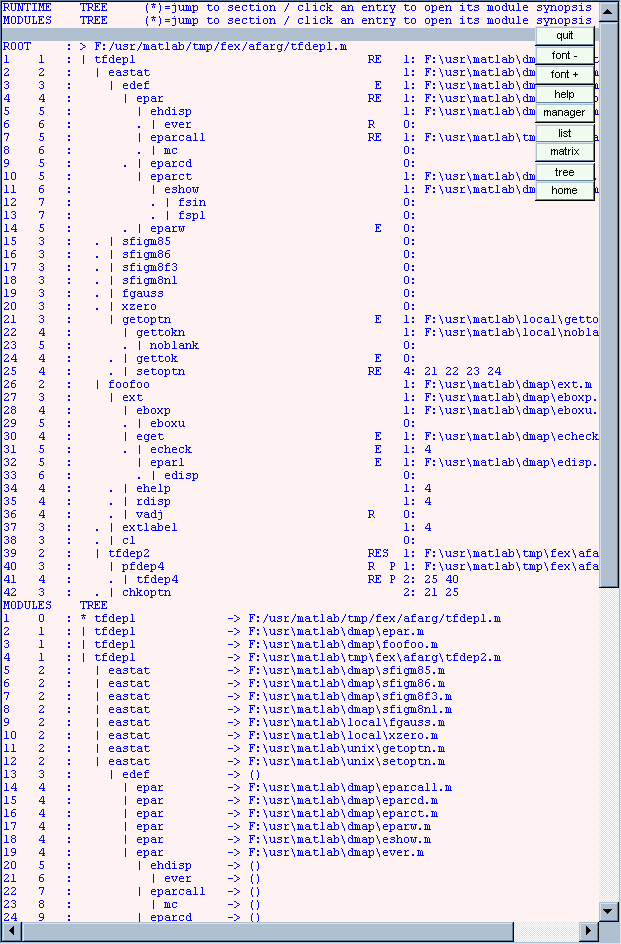
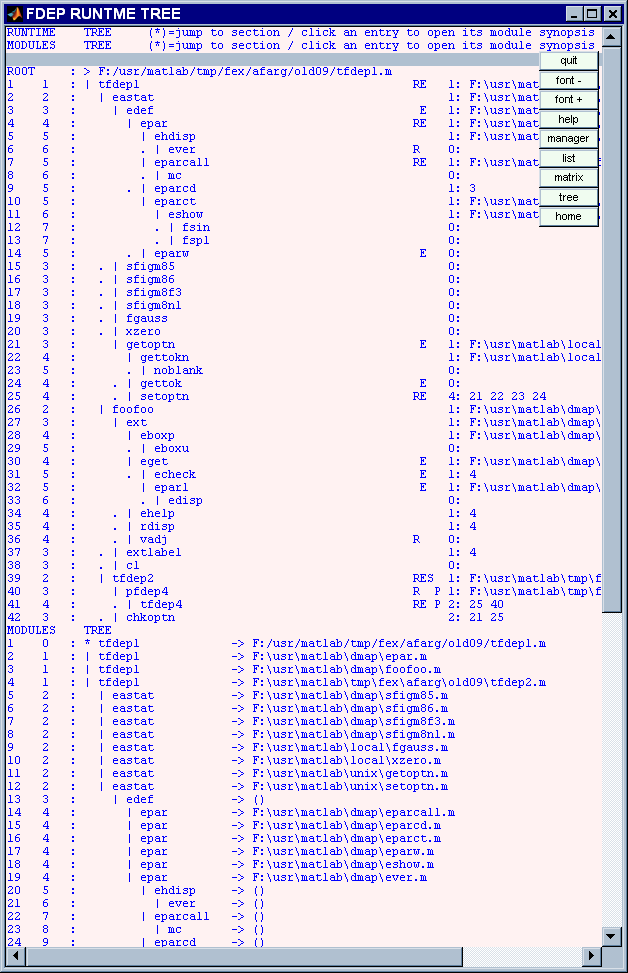
version 4
script: <http://www.mathworks.com/matlabcentral/fileexchange/17291-fdep--a-pedestrian-function-dependencies-finder>

download: <http://www.mathworks.com/matlabcentral/fileexchange/submissions/17291/v/4/download/zip>

diff --git a/hfdep/fdephtml.html b/hfdep/fdephtml.html
@@ -11,7 +11,7 @@ To make changes, update the M-file and republish this document.
       -->
       <title>fdephtml</title>
       <meta name="generator" content="MATLAB 7.8">
-      <meta name="date" content="2009-06-08">
+      <meta name="date" content="2009-06-18">
       <meta name="m-file" content="fdephtml"><style type="text/css">
 
 body {
@@ -142,7 +142,7 @@ p.footer {
 <span class="comment">% please use a small font size in your browser for best formatting results</span>
 <span class="comment">% of this HTML document</span>
 <span class="comment">%</span>
-<span class="comment">% us	08-Jun-2009 22:24:13</span>
+<span class="comment">% us	18-Jun-2009 09:41:57</span>
 </pre><h2>TFDEP1: dissection of an M-file<a name="2"></a></h2><pre class="codeinput"><span class="comment">% NOTE</span>
 <span class="comment">% - some TFDEP test files contain proprietary functions, which you will NOT have</span>
 <span class="comment">%   therefore, this demo file - FDEPHTML.M - is NOT part of the package</span>
@@ -193,49 +193,49 @@ p.footer {
 <span class="comment">%			24 = &lt;setoptn&gt;</span>
 
 	disp(p.rtree);
-</pre><pre class="codeoutput">ROOT     : &gt; F:/usr/matlab/tmp/fex/afarg/tfdep1.m                                               
-1    1   : | tfdep1                                 RE   1: F:\usr\matlab\dmap\eastat.m         
-2    2   :   | eastat                                    1: F:\usr\matlab\dmap\edef.m           
-3    3   :     | edef                                E   1: F:\usr\matlab\dmap\epar.m           
-4    4   :       | epar                             RE   1: F:\usr\matlab\dmap\ehdisp.m         
-5    5   :         | ehdisp                              1: F:\usr\matlab\dmap\ever.m           
-6    6   :         . | ever                         R    0:                                     
-7    5   :         | eparcall                       RE   1: F:\usr\matlab\tmp\fex\afarg\mc.m    
-8    6   :         . | mc                                0:                                     
-9    5   :       . | eparcd                              0:                                     
-10   5   :         | eparct                              1: F:\usr\matlab\dmap\eshow.m          
-11   6   :           | eshow                             1: F:\usr\matlab\dmap\fsin.m           
-12   7   :           . | fsin                            0:                                     
-13   7   :           . | fspl                            0:                                     
-14   5   :       . | eparw                           E   0:                                     
-15   3   :   . | sfigm85                                 0:                                     
-16   3   :   . | sfigm86                                 0:                                     
-17   3   :   . | sfigm8f3                                0:                                     
-18   3   :   . | sfigm8n1                                0:                                     
-19   3   :   . | fgauss                                  0:                                     
-20   3   :   . | xzero                                   0:                                     
-21   3   :     | getoptn                             E   1: F:\usr\matlab\local\gettokn.m       
-22   4   :       | gettokn                               1: F:\usr\matlab\local\noblank.m       
-23   5   :       . | noblank                             0:                                     
-24   4   :     . | gettok                            E   0:                                     
-25   4   :     . | setoptn                          RE   4: 21 22 23 24                         
-26   2   :   | foofoo                                    1: F:\usr\matlab\dmap\ext.m            
-27   3   :     | ext                                     1: F:\usr\matlab\dmap\eboxp.m          
-28   4   :       | eboxp                                 1: F:\usr\matlab\dmap\eboxu.m          
-29   5   :       . | eboxu                               0:                                     
-30   4   :       | eget                              E   1: F:\usr\matlab\dmap\echeck.m         
-31   5   :       . | echeck                          E   1: 4                                   
-32   5   :         | eparl                           E   1: F:\usr\matlab\dmap\edisp.m          
-33   6   :         . | edisp                             0:                                     
-34   4   :     . | ehelp                                 1: 4                                   
-35   4   :     . | rdisp                                 1: 4                                   
-36   4   :     . | vadj                             R    0:                                     
-37   3   :   . | extlabel                                1: 4                                   
-38   3   :   . | cl                                      0:                                     
-39   2   :   | tfdep2                               RES  1: F:\usr\matlab\tmp\fex\afarg\pfdep4.p
-40   3   :     | pfdep4                             R  P 1: F:\usr\matlab\tmp\fex\afarg\tfdep4.p
-41   4   :     . | tfdep4                           RE P 2: 25 40                               
-42   3   :   . | chkoptn                                 2: 21 25                               
+</pre><pre class="codeoutput">ROOT     : &gt; F:/usr/matlab/tmp/fex/afarg/old09/tfdep1.m                                                     
+1    1   : | tfdep1                                       RE   1: F:\usr\matlab\dmap\eastat.m               
+2    2   :   | eastat                                          1: F:\usr\matlab\dmap\edef.m                 
+3    3   :     | edef                                      E   1: F:\usr\matlab\dmap\epar.m                 
+4    4   :       | epar                                   RE   1: F:\usr\matlab\dmap\ehdisp.m               
+5    5   :         | ehdisp                                    1: F:\usr\matlab\dmap\ever.m                 
+6    6   :         . | ever                               R    0:                                           
+7    5   :         | eparcall                             RE   1: F:\usr\matlab\tmp\fex\afarg\old09\mc.m    
+8    6   :         . | mc                                      0:                                           
+9    5   :       . | eparcd                                    1: 3                                         
+10   5   :         | eparct                                    1: F:\usr\matlab\dmap\eshow.m                
+11   6   :           | eshow                                   1: F:\usr\matlab\dmap\fsin.m                 
+12   7   :           . | fsin                                  0:                                           
+13   7   :           . | fspl                                  0:                                           
+14   5   :       . | eparw                                 E   0:                                           
+15   3   :   . | sfigm85                                       0:                                           
+16   3   :   . | sfigm86                                       0:                                           
+17   3   :   . | sfigm8f3                                      0:                                           
+18   3   :   . | sfigm8n1                                      0:                                           
+19   3   :   . | fgauss                                        0:                                           
+20   3   :   . | xzero                                         0:                                           
+21   3   :     | getoptn                                   E   1: F:\usr\matlab\local\gettokn.m             
+22   4   :       | gettokn                                     1: F:\usr\matlab\local\noblank.m             
+23   5   :       . | noblank                                   0:                                           
+24   4   :     . | gettok                                  E   0:                                           
+25   4   :     . | setoptn                                RE   4: 21 22 23 24                               
+26   2   :   | foofoo                                          1: F:\usr\matlab\dmap\ext.m                  
+27   3   :     | ext                                           1: F:\usr\matlab\dmap\eboxp.m                
+28   4   :       | eboxp                                       1: F:\usr\matlab\dmap\eboxu.m                
+29   5   :       . | eboxu                                     0:                                           
+30   4   :       | eget                                    E   1: F:\usr\matlab\dmap\echeck.m               
+31   5   :       . | echeck                                E   1: 4                                         
+32   5   :         | eparl                                 E   1: F:\usr\matlab\dmap\edisp.m                
+33   6   :         . | edisp                                   0:                                           
+34   4   :     . | ehelp                                       1: 4                                         
+35   4   :     . | rdisp                                       1: 4                                         
+36   4   :     . | vadj                                   R    0:                                           
+37   3   :   . | extlabel                                      1: 4                                         
+38   3   :   . | cl                                            0:                                           
+39   2   :   | tfdep2                                     RES  1: F:\usr\matlab\tmp\fex\afarg\old09\pfdep4.p
+40   3   :     | pfdep4                                   R  P 1: F:\usr\matlab\tmp\fex\afarg\old09\tfdep4.p
+41   4   :     . | tfdep4                                 RE P 2: 25 40                                     
+42   3   :   . | chkoptn                                       2: 21 25                                     
 </pre><h2>- the listing's panels<a name="5"></a></h2><pre class="codeinput"><span class="comment">% SYNTAX</span>
 <span class="comment">%	runtime	:	p=fdep(FILE,'-l',...);</span>
 <span class="comment">%	marcros	:</span>
@@ -333,14 +333,14 @@ p.footer {
 
 	pp=fdep(<span class="string">'pfdep4.p'</span>,<span class="string">'-q'</span>);
 	disp(char(pp.rtree));
-</pre><pre class="codeoutput">ROOT     : &gt; F:/usr/matlab/tmp/fex/afarg/pfdep4.p                                               
-1    1   : | pfdep4                                 R  P 1: F:\usr\matlab\tmp\fex\afarg\tfdep4.p
-2    2   :   | tfdep4                               RE P 1: F:\usr\matlab\unix\setoptn.m        
-3    3   :     | setoptn                            RE   1: F:\usr\matlab\local\gettokn.m       
-4    4   :       | gettokn                               1: F:\usr\matlab\local\noblank.m       
-5    5   :       . | noblank                             0:                                     
-6    4   :       | getoptn                           E   1: F:\usr\matlab\unix\gettok.m         
-7    5   :       . | gettok                          E   0:                                     
+</pre><pre class="codeoutput">ROOT     : &gt; F:/usr/matlab/tmp/fex/afarg/old09/pfdep4.p                                                     
+1    1   : | pfdep4                                       R  P 1: F:\usr\matlab\tmp\fex\afarg\old09\tfdep4.p
+2    2   :   | tfdep4                                     RE P 1: F:\usr\matlab\unix\setoptn.m              
+3    3   :     | setoptn                                  RE   1: F:\usr\matlab\local\gettokn.m             
+4    4   :       | gettokn                                     1: F:\usr\matlab\local\noblank.m             
+5    5   :       . | noblank                                   0:                                           
+6    4   :       | getoptn                                 E   1: F:\usr\matlab\unix\gettok.m               
+7    5   :       . | gettok                                E   0:                                           
 </pre><h2>- the content of selected modules<a name="12"></a></h2><pre class="codeinput"><span class="comment">% module PFDEP4</span>
 <span class="comment">% - standalone P-file</span>
 <span class="comment">% - calls cannot be extracted</span>
@@ -440,13 +440,13 @@ ML  toolboxes:     1
 
 	disp(m(1));
 </pre><pre class="codeoutput">                            magic: 'FDEPmodule'
-                          FDEPver: '08-Jun-2009 22:24:13'
+                          FDEPver: '18-Jun-2009 09:41:57'
                             MLver: '7.8.0.347 (R2009a)'
-                          rundate: '08-Jun-2009 22:24:14'
-    MODULE_DESCRIPTION___________: [1x36 char]
+                          rundate: '18-Jun-2009 09:42:00'
+    MODULE_DESCRIPTION___________: [1x42 char]
                            module: 'eastat'
                              file: 'F:/usr/matlab/dmap/eastat.m'
-                           parent: [1x36 char]
+                           parent: [1x42 char]
                             index: 4
                              type: 'FUNCTION'
                          isscript: 0
@@ -457,15 +457,15 @@ ML  toolboxes:     1
                          hascalls: 9
                          iscalled: 1
                          synopsis: {26x1 cell}
-      MODULE_FUNCTIONS___________: [1x36 char]
+      MODULE_FUNCTIONS___________: [1x42 char]
                             calls: {151x1 cell}
                       subfunction: {11x1 cell}
                            nested: {'splot(res,mflag)'}
                         anonymous: {4x1 cell}
                        unresolved: {0x1 cell}
                           callsTO: {9x1 cell}
-                        callsFROM: {[1x36 char]}
-          ML_FUNCTIONS___________: [1x36 char]
+                        callsFROM: {[1x42 char]}
+          ML_FUNCTIONS___________: [1x42 char]
                        MLfunction: {19x1 cell}
                         MLbuiltin: {30x1 cell}
                           MLclass: {[1x56 char]}
@@ -614,8 +614,8 @@ Undefined function or variable 'FOO_GOO_HOO_XXX'.
 
 	s=fdep(<span class="string">'tfdep3'</span>,<span class="string">'-q'</span>);
 	disp(char(s.rtree));
-</pre><pre class="codeoutput">ROOT     : &gt; F:/usr/matlab/tmp/fex/afarg/tfdep3.m           
-1    1   : | tfdep3                                  E   0: 
+</pre><pre class="codeoutput">ROOT     : &gt; F:/usr/matlab/tmp/fex/afarg/old09/tfdep3.m           
+1    1   : | tfdep3                                        E   0: 
 </pre><pre class="codeinput"><span class="comment">% look at the MAIN modules</span>
 
 	s.mhelp(<span class="string">'tfdep3'</span>);
@@ -635,39 +635,38 @@ Undefined function or variable 'FOO_GOO_HOO_XXX'.
 <span class="comment">% NOTE</span>
 <span class="comment">% - NO &lt;calls   TO&gt;</span>
 <span class="comment">% - NO &lt;calls FROM&gt;</span>
-<span class="comment">% - MODULE and ROOT summary contain the same number of entries in each ML group</span>
 
 	fdep <span class="string">fdep</span>;
-</pre><pre class="codeoutput">ROOT   : &gt; F:/usr/matlab/tmp/fex/afarg/fdep.m
+</pre><pre class="codeoutput">ROOT   : &gt; F:/usr/matlab/tmp/fex/afarg/old09/fdep.m
 1    1   : | fdep	     0: 
 
 -------------  NO USER-DEFINED DEPENDENCIES FOUND
-M-FILE       : F:/usr/matlab/tmp/fex/afarg/fdep.m
-P-FILE       :                                   
-MODULE  #   1: fdep                              
-type         : FUNCTION                          
-created      : 08-Jun-2009 22:24:13              
-size         : 92663 bytes                       
-lines        : 3776                              
-comments     : 585                               
-empty        : 220                               
-recursive    : no                                
-f/eval..     : not used                          
-unresolved   : no                                
-calls    TO  :     0  user defined               
-called   FROM:     0  user defined               
-calls in FILE:   633                             
-subfunctions :    51  inside  file               
-nested       :     0                             
-anonymous    :    46                             
-f/eval..     :     0                             
-unresolved   :     0                             
-ML      stock:    34                             
-ML  built-ins:    86                             
-ML    classes:     1                             
-OTHER classes:     0                             
-ML  toolboxes:     1                             
-             :    +1  MATLAB (7.8) [matlab]      
+M-FILE       : F:/usr/matlab/tmp/fex/afarg/old09/fdep.m
+P-FILE       :                                         
+MODULE  #   1: fdep                                    
+type         : FUNCTION                                
+created      : 18-Jun-2009 09:41:57                    
+size         : 92838 bytes                             
+lines        : 3786                                    
+comments     : 585                                     
+empty        : 220                                     
+recursive    : no                                      
+f/eval..     : not used                                
+unresolved   : no                                      
+calls    TO  :     0  user defined                     
+called   FROM:     0  user defined                     
+calls in FILE:   634                                   
+subfunctions :    51  inside  file                     
+nested       :     0                                   
+anonymous    :    46                                   
+f/eval..     :     0                                   
+unresolved   :     0                                   
+ML      stock:    34                                   
+ML  built-ins:    86                                   
+ML    classes:     1                                   
+OTHER classes:     0                                   
+ML  toolboxes:     1                                   
+             :    +1  MATLAB (7.8) [matlab]            
 </pre><pre class="codeinput"><span class="comment">% programmers can use this form</span>
 
 	d=fdep(<span class="string">'fdep'</span>,<span class="string">'-q'</span>);
@@ -829,7 +828,7 @@ ML  toolboxes:     1
 % please use a small font size in your browser for best formatting results
 % of this HTML document
 %
-% us	08-Jun-2009 22:24:13
+% us	18-Jun-2009 09:41:57
 %% TFDEP1: dissection of an M-file
 %
 
@@ -1176,7 +1175,6 @@ ML  toolboxes:     1
 % NOTE
 % - NO <calls   TO>
 % - NO <calls FROM>
-% - MODULE and ROOT summary contain the same number of entries in each ML group
 
 	fdep fdep;
 %%

diff --git a/fdep.m b/fdep.m
@@ -107,13 +107,13 @@
 % created:
 %	us	07-Mar-2006
 % modified:
-%	us	08-Jun-2009 22:24:13	/ FEX R2008a
+%	us	18-Jun-2009 09:41:57	/ FEX R2008a
 
 %-------------------------------------------------------------------------------
 function	po=fdep(varargin)
 
 		magic='FDEP';
-		ver='08-Jun-2009 22:24:13';
+		ver='18-Jun-2009 09:41:57';
 		dopt={
 			'-toponly'
 			'-quiet'
@@ -2503,14 +2503,14 @@ end
 %-------------------------------------------------------------------------------
 %-------------------------------------------------------------------------------
 %-------------------------------------------------------------------------------
-%$SSC_INSERT_BEG   08-Jun-2009/22:24:13   F:/usr/matlab/tmp/fex/afarg/farg.m
+%$SSC_INSERT_BEG   18-Jun-2009/09:41:57   F:/usr/matlab/tmp/fex/afarg/old09/farg.m
 % SSC automatic file insertion utility
 %     - us@neurol.unizh.ch [ver 07-Jun-2009/19:50:14]
 %     - all empty spaces and comments are stripped for brevity
 %     - original code available upon request
 function	[p,pp]=farg(varargin)
 		magic='FARG';
-		fver='08-Jun-2009 22:24:04';
+		fver='18-Jun-2009 09:41:48';
 	if	~nargin
 	if	nargout
 		[p,pp]=FARG_ini_par(magic,fver,mfilename,'-d');
@@ -2905,9 +2905,19 @@ end
 function	[p,par]=FARG_get_class(p,par,mode)
 	switch	mode
 	case	1
-		ic=find(strncmp('CLASSDEF',par.ltok(:,1),numel('CLASSDEF')));
-	if	any(ic)
-		par.ltok(ic,:)=strrep(par.ltok(ic,:),'CLASSDEF','FUNCTION');
+		ich=find(strncmp('CLASSDEF',par.ltok(:,1),numel('CLASSDEF')));
+		ic=ich;
+	if	strcmp(par.ltok(ic+1,1),'''(''')
+		ic=ic+1;
+	while	ic < par.nlex
+		ic=ic+1;
+	if	strcmp(par.ltok(ic,1),''')''')
+		break;
+	end
+	end
+	end
+	if	any(ich)
+		par.ltok(ich,:)=strrep(par.ltok(ich,:),'CLASSDEF','FUNCTION');
 		par.call=[
 			{
 			sprintf('M%-1d %-1d %-1d %s',0,par.lex(ic+1,1:2),par.ltok{ic+1,2})
@@ -3458,7 +3468,7 @@ function	s=FARG_show_entries(p,varargin)
 		clear	s;
 	end
 end
-%$SSC_INSERT_END   08-Jun-2009/22:24:13   F:/usr/matlab/tmp/fex/afarg/farg.m
+%$SSC_INSERT_END   18-Jun-2009/09:41:57   F:/usr/matlab/tmp/fex/afarg/old09/farg.m
 %-------------------------------------------------------------------------------
 %-------------------------------------------------------------------------------
 %-------------------------------------------------------------------------------
@@ -3473,7 +3483,7 @@ end
 %-------------------------------------------------------------------------------
 %-------------------------------------------------------------------------------
 %-------------------------------------------------------------------------------
-%$SSC_INSERT_BEG   08-Jun-2009/22:24:13   F:/usr/matlab/unix/detab.m
+%$SSC_INSERT_BEG   18-Jun-2009/09:41:57   F:/usr/matlab/unix/detab.m
 % SSC automatic file insertion utility
 %     - us@neurol.unizh.ch [ver 07-Jun-2009/19:50:14]
 %     - all empty spaces and comments are stripped for brevity
@@ -3621,7 +3631,7 @@ function	[opt,par]=DETAB_get_par(otmpl,varargin)
 	end
 		par.uh=[];
 end
-%$SSC_INSERT_END   08-Jun-2009/22:24:13   F:/usr/matlab/unix/detab.m
+%$SSC_INSERT_END   18-Jun-2009/09:41:57   F:/usr/matlab/unix/detab.m
 %--------------------------------------------------------------------------------
 %-------------------------------------------------------------------------------
 %-------------------------------------------------------------------------------
@@ -3633,7 +3643,7 @@ end
 %-------------------------------------------------------------------------------
 %-------------------------------------------------------------------------------
 %@LISTHELP_BEG
-% FDEP	version 08-Jun-2009 22:24:13
+% FDEP	version 18-Jun-2009 09:41:57
 %
 % the ML-file under investigation is the
 %	root function = MAIN module

diff --git a/tfdep3.m b/tfdep3.m
@@ -11,7 +11,7 @@
 % created:
 %	us	01-Mar-2007
 % modified:
-%	us	08-Jun-2009 22:24:13
+%	us	18-Jun-2009 09:41:57
 
 %--------------------------------------------------------------------------------
 function	r=tfdep3(varargin)

diff --git a/tfdep1.m b/tfdep1.m
@@ -11,7 +11,7 @@
 % created:
 %	us	01-Mar-2007
 % modified:
-%	us	08-Jun-2009 22:24:13
+%	us	18-Jun-2009 09:41:57
 
 %--------------------------------------------------------------------------------
 function	tfdep1

diff --git a/tfdep2.m b/tfdep2.m
@@ -11,7 +11,7 @@
 % created:
 %	us	01-Mar-2007
 % modified:
-%	us	08-Jun-2009 22:24:13
+%	us	18-Jun-2009 09:41:57
 
 %--------------------------------------------------------------------------------
 

diff --git a/tfdep4.m b/tfdep4.m
@@ -11,7 +11,7 @@
 % created:
 %	us	01-Mar-2007
 % modified:
-%	us	08-Jun-2009 22:24:13
+%	us	18-Jun-2009 09:41:57
 
 %	TFDEP4.M
 %	is pcoded and the p-file is also copied to a standalone p-file
